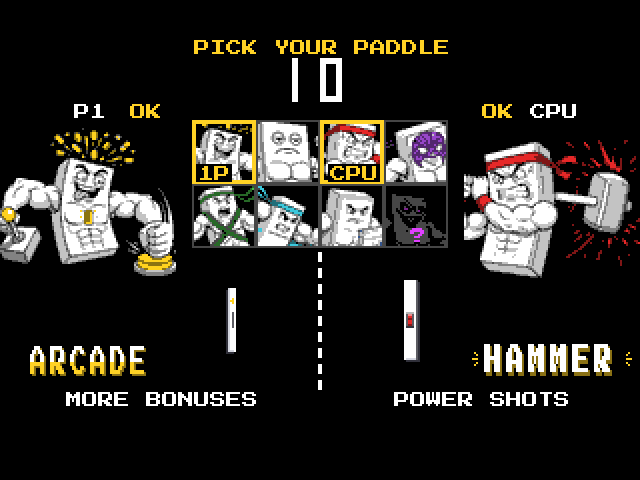
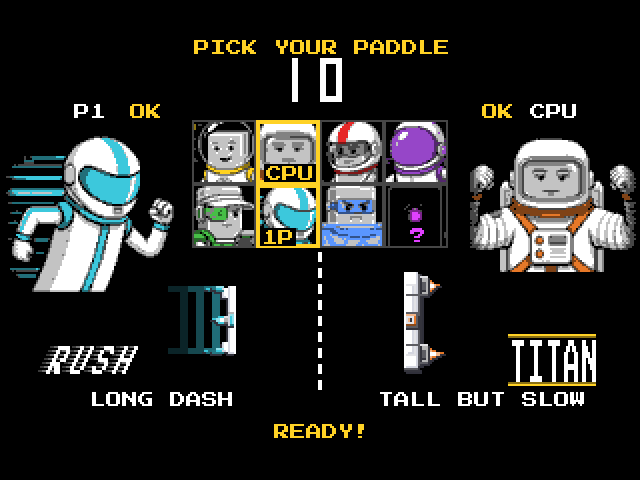
Guida, schermate e changelog della 4.6.0
Astronavi e loro illustrazioni nella guida, BLASTER, ARCADE, TWIST, BULLET e mosse speciali
aggiornati, nuove schermate del finale, schermate di PC, MiSTer e C64 con i personaggi nuovi.

diff --git a/docs/it/come-si-gioca.md b/docs/it/come-si-gioca.md
@@ -54,24 +54,34 @@ Ogni capsula mostra il simbolo del suo bonus:
 | <img src="../icons/ghost.png" alt="" width="40" height="40"><br>**GHOST** | dopo il prossimo tiro la palla si vede solo a lampi |
 | <img src="../icons/steer.png" alt="" width="40" height="40"><br>**STEER** | dopo il prossimo tiro i comandi su e giù guidano la palla, con una sterzata limitata, fino a 3/4 del campo (segnati in giallo sui bordi); intanto la racchetta resta ferma |
 | <img src="../icons/super.png" alt="" width="40" height="40"><br>**SUPER** | raro, solo dalle capsule: tiro velocissimo, con un'animazione a caso tra racchetta che ruota, hit-stop e cometa che spacca la rete |
-| <img src="../icons/bullet.png" alt="" width="40" height="40"><br>**BULLET** | raro, solo dalle capsule (circa una su 16): bullet time difensivo. Una volta attivato resta armato (il bordo giallo della racchetta lampeggia) finché la palla non entra nella propria metà campo, diretta verso di sé; allora, con un'entrata graduale, tutto va a metà velocità (palla con CURVE e STEER, racchetta avversaria, capsule, colpi del BLASTER avversario) tranne la propria racchetta, fino alla ribattuta o al punto. Il resto del gioco diventa grigio e sfocato (sul MiSTer con bordi sfumati, sul C64 solo grigio) e la palla lascia una scia di immagini. Se si subisce un punto prima che scatti, il bonus non si consuma; se ne usa uno alla volta |
+| <img src="../icons/bullet.png" alt="" width="40" height="40"><br>**BULLET** | raro, solo dalle capsule (circa una su 16): bullet time difensivo. Una volta attivato resta armato (il bordo giallo della racchetta lampeggia) finché la palla non entra nella propria metà campo, diretta verso di sé; allora, con un'entrata graduale, tutto rallenta tranne la propria racchetta: la racchetta avversaria, le capsule e i colpi del BLASTER avversario vanno a metà velocità, la palla (anche con CURVE e STEER) tanto più piano quanto più è veloce, da un quarto in meno se è lenta a sette ottavi in meno se è velocissima, fino alla ribattuta o al punto. Il resto del gioco diventa grigio e sfocato (sul MiSTer con bordi sfumati, sul C64 solo grigio) e la palla lascia una scia di immagini. Se si subisce un punto prima che scatti, il bonus non si consuma; se ne usa uno alla volta |
 
 ## Tipi di racchetta (NEXT)
 
-Prima dei bonus ognuno sceglie la sua racchetta (ogni avversario della scalata ha la sua). Ogni tipo ha un vantaggio, un piccolo prezzo e il disegno del suo personaggio, che lo fa
-riconoscere in partita (nell'immagine le racchette sono in proporzione; sul C64 i segni sono fermi
-e con i colori di sempre). I tipi sono bilanciati perché ognuno vinca
-circa metà dei punti contro la racchetta normale.
+Prima dei bonus ognuno sceglie la sua racchetta (ogni avversario della scalata ha la sua). Ogni tipo ha un vantaggio, un piccolo prezzo e l'astronave del suo personaggio, vista dall'alto, che lo fa
+riconoscere in partita (nell'immagine le racchette sono in proporzione; sul C64 i disegni sono fermi).
+La faccia che colpisce resta un bordo dritto, alto quanto la racchetta. Su PC e MiSTer i motori
+fanno fuoco e, allo scatto in avanti, si accendono i booster: un lampo agli ugelli e un getto che
+parte da dove era la racchetta e si accorcia in un quarto di secondo. I tipi sono bilanciati perché
+ognuno vinca circa metà dei punti contro la racchetta normale.
 
 ![I sette tipi di racchetta, in proporzione, con i loro segni](../icons/paddles.png)
 
+Le astronavi, come compaiono nella schermata THE END del finale:
+
+| | | |
+|:---:|:---:|:---:|
+| <img src="../../assets/ships/arcade.png" alt="ARCADE" width="260"><br>**ARCADE** | <img src="../../assets/ships/titan.png" alt="TITAN" width="260"><br>**TITAN** | <img src="../../assets/ships/hammer.png" alt="HAMMER" width="260"><br>**HAMMER** |
+| <img src="../../assets/ships/twist.png" alt="TWIST" width="260"><br>**TWIST** | <img src="../../assets/ships/blaster.png" alt="BLASTER" width="260"><br>**BLASTER** | <img src="../../assets/ships/rush.png" alt="RUSH" width="260"><br>**RUSH** |
+| <img src="../../assets/ships/guardian.png" alt="GUARDIAN" width="260"><br>**GUARDIAN** | | |
+
 | tipo | vantaggio | prezzo |
 |---|---|---|
-| **ARCADE** | più capsule: partono ogni 3-4 s invece di 4-5 e due su tre vanno a lui (se l'avversario non è ARCADE); pausa più breve tra due bonus | più corta (0,8) |
+| **ARCADE** | più capsule: partono ogni 3-4 s invece di 4-5 e due su tre vanno a lui (se l'avversario non è ARCADE); pausa più breve tra due bonus; con la riserva vuota un doppio clic su USE (entro 0,4 s) chiama subito una capsula verso di sé, se non ne sta già arrivando una | più corta (0,8) |
 | **TITAN** | più alta (1,2) | più lenta (0,8) |
 | **HAMMER** | i tiri partono più veloci (×1,25, se la palla non ha già un boost) | lenta (0,75) |
-| **TWIST** | passa alla palla metà della sua velocità verticale: colpendo in movimento si dà angolo; si inclina con la velocità | — |
-| **BLASTER** | un po' più alta (1,1) e spara: caricatore di 4 colpi veloci da sparare di fila, mostrati come rettangolini gialli dietro la racchetta (si ricarica 3 s dopo il primo colpo); i colpi raccolgono le capsule, anche quelle dirette all'avversario | niente scatto in avanti: spara con quel tasto |
+| **TWIST** | passa alla palla tre quarti della sua velocità verticale, fino a circa 60 gradi: colpendo in movimento si dà angolo; si inclina con la velocità | — |
+| **BLASTER** | un po' più alta (1,1) e spara due fasci laser verdi dai cannoni alari: caricatore di 6 colpi, mostrato dalla barra verde dietro la racchetta (si ricarica 3 s dopo il primo colpo); tenendo premuto il tasto i colpi vicini diventano un raggio continuo. I colpi raccolgono le capsule, anche quelle dirette all'avversario, e se prendono la racchetta avversaria la rallentano a metà per 2 s | niente scatto in avanti: spara con quel tasto |
 | **RUSH** | scatto in avanti più lungo (×1,5), che prende la palla più spesso; dalla posizione avanzata i tiri partono più veloci (×1,15, anche lo scatto che intercetta la palla) e più vicini all'avversario; la racchetta avanzata è anche più rapida (×1,15) | più corta (0,85) |
 | **GUARDIAN** | un muro a 5 settori dietro la racchetta, uno per partita: ogni palla mancata rimbalza sul settore all'altezza della palla, che poi sparisce | più corta (0,8) |
 
@@ -100,11 +110,11 @@ non si attivano bonus).
 | mossa | effetto |
 |---|---|
 | **STRAIGHT SHOT** | il prossimo tiro parte dritto, senza angolo, a una volta e mezza la spinta del colpo (il doppio la MAX); vale un tiro solo, e si perde se l'avversario lo intercetta con lo scatto |
-| **RISING STRIKE** | il prossimo tiro parte dritto e, passati i 5/8 del campo (i 7/8 la MAX), s'impenna di colpo a 45° lontano dalla racchetta avversaria: inganna chi si era già messo sulla traiettoria |
+| **RISING STRIKE** | il prossimo tiro parte dritto, più veloce (×1,25, la MAX ×1,5), e, passati i 5/8 del campo (i 7/8 la MAX), s'impenna di colpo a 45° lontano dalla racchetta avversaria: inganna chi si era già messo sulla traiettoria |
 
-Anche a inizio scambio una mossa non parte lenta: al colpo la palla va almeno a metà della velocità
-massima della difficoltà con STRAIGHT SHOT (la MAX quindi almeno alla velocità massima) e ai 3/8 con
-RISING STRIKE.
+Anche a inizio scambio una mossa non parte lenta: al colpo la palla va almeno ai 3/4 della velocità
+massima della difficoltà con STRAIGHT SHOT (che poi la moltiplica: la MAX parte almeno a una volta e
+mezza la massima) e ai 5/8 con RISING STRIKE.
 
 | comando | STRAIGHT SHOT | RISING STRIKE |
 |---|---|---|
@@ -167,7 +177,9 @@ semplici). Le partite sono NEXT a 5 punti.
   sfilata dei sette avversari con il timbro DEFEATED (sul MiSTer la racchetta battuta si spegne),
   il punteggio finale con il premio del
   campione (la vittoria dell'ultimo livello, più la partita perfetta), "YOU ARE THE PADD WS
-  CHAMPION" con i fuochi d'artificio, i titoli di coda e THE END, in circa un minuto, con una
+  CHAMPION" con i fuochi d'artificio, tra cui passa l'astronave del campione, che rallenta, carica e
+  salta nell'iperspazio, i titoli di coda e THE END con l'illustrazione della sua astronave, in
+  circa un minuto, con una
   musica tutta sua; poi le iniziali. Start lo salta. La voce "YOU WIN!" si sente anche a ogni
   partita vinta contro la CPU. Se chi vince non ha lasciato neanche un punto all'avversario, al posto
   di YOU WIN (o di GAME OVER, in due) compare PERFECT, urlato dalla voce.
@@ -363,8 +375,10 @@ menu. Solo PAL; finora provata in VICE. Dettagli in [c64/README.md](../../c64/RE
 | NEXT: scelta della racchetta, con i personaggi | Le racchette dei personaggi: BLASTER contro GUARDIAN |
 | ![NEXT: lo schermo VS della scalata](../screenshots/challenge-intro.png) | ![NEXT: nuovo sfidante](../screenshots/challenge-challenger.png) |
 | NEXT: lo schermo VS prima dell'ultimo avversario, GUARDIAN | NEXT: entra un secondo giocatore |
-| ![Finale: la sfilata degli avversari battuti](../screenshots/ending-parade.png) | ![Commodore 64: scelta della racchetta](../screenshots/c64-paddles.png) |
-| Finale della scalata: gli avversari battuti, timbrati DEFEATED | Commodore 64: scelta della racchetta, con i personaggi |
+| ![Finale: la sfilata degli avversari battuti](../screenshots/ending-parade.png) | ![Finale: l'astronave del campione salta nell'iperspazio](../screenshots/ending-warp.png) |
+| Finale della scalata: gli avversari battuti, timbrati DEFEATED | Finale: tra i fuochi l'astronave del campione salta nell'iperspazio |
+| ![Finale: THE END con l'astronave del campione](../screenshots/ending-the-end.png) | ![Commodore 64: scelta della racchetta](../screenshots/c64-paddles.png) |
+| Finale: THE END con l'illustrazione dell'astronave | Commodore 64: scelta della racchetta, con i personaggi |
 | ![Core MiSTer: titolo](../screenshots/mister-title.png) | ![Core MiSTer: scelta della racchetta](../screenshots/mister-pick.png) |
 | Core MiSTer a 320×240: titolo dopo il gettone | Core MiSTer: scelta della racchetta, con i personaggi |
 | ![Commodore 64: titolo](../screenshots/c64-title.png) | ![Commodore 64: partita NEXT](../screenshots/c64-next.png) |

diff --git a/docs/en/how-to-play.md b/docs/en/how-to-play.md
@@ -56,24 +56,34 @@ Each capsule shows the symbol of its power-up:
 | <img src="../icons/ghost.png" alt="" width="40" height="40"><br>**GHOST** | after the next shot the ball is only visible in flashes |
 | <img src="../icons/steer.png" alt="" width="40" height="40"><br>**STEER** | after the next shot, up and down steer the ball, with limited steering, up to 3/4 of the field (marked in yellow on the edges); meanwhile the paddle stays still |
 | <img src="../icons/super.png" alt="" width="40" height="40"><br>**SUPER** | rare, only from capsules: a very fast shot, with a random animation among spinning paddle, hit-stop and a comet that breaks the net |
-| <img src="../icons/bullet.png" alt="" width="40" height="40"><br>**BULLET** | rare, only from capsules (about one in 16): defensive bullet time. Once activated it stays armed (the yellow border of the paddle flashes) until the ball enters your own half, heading towards you; then, easing in, everything runs at half speed (ball with CURVE and STEER, opponent's paddle, capsules, the opponent's BLASTER shots) except your own paddle, until the return or the point. The rest of the game turns grey and blurred (on the MiSTer with soft edges, on the C64 just grey) and the ball leaves a trail of images. If you concede a point before it triggers, the power-up is not used up; only one can be used at a time |
+| <img src="../icons/bullet.png" alt="" width="40" height="40"><br>**BULLET** | rare, only from capsules (about one in 16): defensive bullet time. Once activated it stays armed (the yellow border of the paddle flashes) until the ball enters your own half, heading towards you; then, easing in, everything slows down except your own paddle: the opponent's paddle, the capsules and the opponent's BLASTER shots run at half speed, the ball (also with CURVE and STEER) the more the faster it is, from a quarter less when it is slow to seven eighths less when it is very fast, until the return or the point. The rest of the game turns grey and blurred (on the MiSTer with soft edges, on the C64 just grey) and the ball leaves a trail of images. If you concede a point before it triggers, the power-up is not used up; only one can be used at a time |
 
 ## Paddle types (NEXT)
 
-Before the power-ups each player picks a paddle (each opponent of the ladder has its own). Each type has an advantage, a small price and its character's design, which makes it
-recognisable in play (the paddles in the picture are to scale; on the C64 the marks are still and
-keep the usual colours). The types are balanced so that each
-wins about half of the points against the normal paddle.
+Before the power-ups each player picks a paddle (each opponent of the ladder has its own). Each type has an advantage, a small price and its character's spaceship, seen from above, which makes it
+recognisable in play (the paddles in the picture are to scale; on the C64 the drawings are still).
+The hitting face stays a straight edge, as tall as the paddle. On PC and MiSTer the engines fire
+and, on the forward dash, the boosters ignite: a flash at the nozzles and a jet that starts where
+the paddle was and shrinks within a quarter of a second. The types are balanced so that each wins
+about half of the points against the normal paddle.
 
 ![The seven paddle types, to scale, with their marks](../icons/paddles.png)
 
+The spaceships, as they appear on the THE END screen of the ending:
+
+| | | |
+|:---:|:---:|:---:|
+| <img src="../../assets/ships/arcade.png" alt="ARCADE" width="260"><br>**ARCADE** | <img src="../../assets/ships/titan.png" alt="TITAN" width="260"><br>**TITAN** | <img src="../../assets/ships/hammer.png" alt="HAMMER" width="260"><br>**HAMMER** |
+| <img src="../../assets/ships/twist.png" alt="TWIST" width="260"><br>**TWIST** | <img src="../../assets/ships/blaster.png" alt="BLASTER" width="260"><br>**BLASTER** | <img src="../../assets/ships/rush.png" alt="RUSH" width="260"><br>**RUSH** |
+| <img src="../../assets/ships/guardian.png" alt="GUARDIAN" width="260"><br>**GUARDIAN** | | |
+
 | type | advantage | price |
 |---|---|---|
-| **ARCADE** | more capsules: they start every 3-4 s instead of 4-5 and two out of three go to it (if the opponent is not ARCADE); shorter pause between two power-ups | shorter (0.8) |
+| **ARCADE** | more capsules: they start every 3-4 s instead of 4-5 and two out of three go to it (if the opponent is not ARCADE); shorter pause between two power-ups; with an empty reserve a double click on USE (within 0.4 s) calls a capsule towards it right away, unless one is already on its way | shorter (0.8) |
 | **TITAN** | taller (1.2) | slower (0.8) |
 | **HAMMER** | shots leave faster (×1.25, if the ball doesn't already have a boost) | slow (0.75) |
-| **TWIST** | passes half of its vertical speed to the ball: hitting while moving gives angle; it tilts with its speed | — |
-| **BLASTER** | slightly taller (1.1) and it shoots: a magazine of 4 fast shots that can be fired in a row, shown as small yellow rectangles behind the paddle (it reloads 3 s after the first shot); the shots collect capsules, even those heading for the opponent | no forward dash: that button shoots |
+| **TWIST** | passes three quarters of its vertical speed to the ball, up to about 60 degrees: hitting while moving gives angle; it tilts with its speed | — |
+| **BLASTER** | slightly taller (1.1) and it shoots two green laser beams from its wing guns: a magazine of 6 shots, shown by the green bar behind the paddle (it reloads 3 s after the first shot); holding the button turns close shots into a continuous beam. The shots collect capsules, even those heading for the opponent, and when they hit the opponent's paddle they slow it to half speed for 2 s | no forward dash: that button shoots |
 | **RUSH** | longer forward dash (×1.5), which catches the ball more often; from the forward position shots leave faster (×1.15, also with the dash that intercepts the ball) and closer to the opponent; the forward paddle is also quicker (×1.15) | shorter (0.85) |
 | **GUARDIAN** | a 5-section wall behind the paddle, one per match: each missed ball bounces off the section at the ball's height, which then disappears | shorter (0.8) |
 
@@ -102,11 +112,11 @@ power-ups can be activated).
 | move | effect |
 |---|---|
 | **STRAIGHT SHOT** | the next shot goes straight, with no angle, at one and a half times the push of the hit (twice with the MAX); it lasts one shot only, and is lost if the opponent intercepts it with the dash |
-| **RISING STRIKE** | the next shot goes straight and, past 5/8 of the field (7/8 with the MAX), suddenly rises at 45° away from the opponent's paddle: it fools whoever had already moved into its path |
+| **RISING STRIKE** | the next shot goes straight, faster (×1.25, the MAX ×1.5), and, past 5/8 of the field (7/8 with the MAX), suddenly rises at 45° away from the opponent's paddle: it fools whoever had already moved into its path |
 
 A move never leaves slowly, even at the start of a rally: when it is hit, the ball goes at least at
-half the difficulty's top speed with STRAIGHT SHOT (so the MAX at least at the top speed) and at 3/8
-with RISING STRIKE.
+3/4 of the difficulty's top speed with STRAIGHT SHOT (which then multiplies it: the MAX leaves at
+least at one and a half times the top speed) and at 5/8 with RISING STRIKE.
 
 | command | STRAIGHT SHOT | RISING STRIKE |
 |---|---|---|
@@ -169,7 +179,8 @@ entrances in characters, simpler). Matches are NEXT, to 5 points.
   parade of the seven opponents with the DEFEATED stamp (on the MiSTer the beaten paddle goes
   dark), the final score with the champion's prize
   (the win of the last level, plus the perfect match), "YOU ARE THE PADD WS CHAMPION" with
-  fireworks, the credits and THE END, in about a minute, with its own music; then the initials.
+  fireworks, through which the champion's spaceship flies, slows down, charges and jumps into
+  hyperspace, the credits and THE END with the illustration of its spaceship, in about a minute, with its own music; then the initials.
   Start skips it. The voice "YOU WIN!" is also heard at every match won against the CPU. If the
   winner didn't let the opponent score a single point, PERFECT replaces YOU WIN (or GAME OVER, with
   two players), shouted by the voice.
@@ -369,8 +380,10 @@ used with `F` / `C` (left) and `.` / `-` (right). Key **5** coin, fire or **RETU
 | NEXT: paddle pick, with the characters | The characters' paddles: BLASTER against GUARDIAN |
 | ![NEXT: the ladder's VS screen](../screenshots/challenge-intro.png) | ![NEXT: new challenger](../screenshots/challenge-challenger.png) |
 | NEXT: the VS screen before the last opponent, GUARDIAN | NEXT: a second player joins in |
-| ![Ending: the parade of the beaten opponents](../screenshots/ending-parade.png) | ![Commodore 64: paddle pick](../screenshots/c64-paddles.png) |
-| Ladder ending: the beaten opponents, stamped DEFEATED | Commodore 64: paddle pick, with the characters |
+| ![Ending: the parade of the beaten opponents](../screenshots/ending-parade.png) | ![Ending: the champion's spaceship jumps into hyperspace](../screenshots/ending-warp.png) |
+| Ladder ending: the beaten opponents, stamped DEFEATED | Ending: among the fireworks the champion's spaceship jumps into hyperspace |
+| ![Ending: THE END with the champion's spaceship](../screenshots/ending-the-end.png) | ![Commodore 64: paddle pick](../screenshots/c64-paddles.png) |
+| Ending: THE END with the spaceship's illustration | Commodore 64: paddle pick, with the characters |
 | ![MiSTer core: title](../screenshots/mister-title.png) | ![MiSTer core: paddle pick](../screenshots/mister-pick.png) |
 | MiSTer core at 320×240: title after the coin | MiSTer core: paddle pick, with the characters |
 | ![Commodore 64: title](../screenshots/c64-title.png) | ![Commodore 64: NEXT match](../screenshots/c64-next.png) |

diff --git a/CHANGELOG.md b/CHANGELOG.md
@@ -14,6 +14,40 @@ crea il commit e il tag `vX.Y.Z`.
 
 ## [Non rilasciato]
 
+### Aggiunto
+- **Astronavi** (PC, web, Deck, MiSTer e C64): le racchette di NEXT diventano le astronavi dei
+  personaggi viste dall'alto, con la faccia che colpisce sempre dritta. Su PC e MiSTer i motori
+  fanno fuoco e allo scatto in avanti si accendono i booster di tutte le racchette: un lampo agli
+  ugelli e un getto che parte da casa e si accorcia mentre la racchetta avanza. Sul C64 ogni
+  astronave ha il suo colore. Le illustrazioni delle astronavi sono nella guida.
+- I personaggi sono ridisegnati come equipaggi spaziali, nella scelta, nello schermo VS e nella
+  sfilata del finale (tutte le versioni).
+- Finale (PC, MiSTer e C64): fuochi d'artificio nuovi, di sei tipi, con una salva finale; tra i
+  fuochi passa l'astronave del campione, che rallenta, carica e salta nell'iperspazio; THE END
+  mostra la sua astronave.
+- **BLASTER**: spara due fasci laser verdi, con un caricatore di 6 colpi mostrato da una barra
+  verde; tenendo premuto il tasto (o il pulsante del paddle, o il joystick verso l'avversario sul
+  C64) continua a sparare e i colpi vicini diventano un raggio continuo. Un colpo che prende la
+  racchetta avversaria la rallenta a metà per 2 s.
+- **ARCADE**: con la riserva vuota, un doppio clic su USE chiama subito una capsula verso di sé.
+- La CPU di NEXT usa le due novità: il BLASTER spara anche alla racchetta avversaria quando la
+  palla va verso di lei, l'ARCADE con la riserva vuota chiama le capsule con il doppio clic.
+
+### Modificato
+- RUSH: la fiamma del postbruciatore è più viva (lunghezza che cambia, alone che pulsa, diamanti
+  d'urto che scorrono, scintille).
+- BULLET: la palla rallenta tanto più quanto è veloce (da un quarto in meno se è lenta a sette
+  ottavi in meno se è velocissima), così anche i tiri più veloci diventano prendibili.
+- TWIST: passa alla palla tre quarti della sua velocità verticale (prima metà), fino a circa 60
+  gradi.
+- Mosse speciali: STRAIGHT SHOT parte almeno ai 3/4 della velocità massima e RISING STRIKE ai 5/8;
+  RISING STRIKE parte anche più veloce (×1,25, la MAX ×1,5).
+- PC: la scritta del bonus sta in alto al centro, sotto i punteggi, come sul MiSTer.
+
+### Corretto
+- PC e MiSTer: il salto del TELEPORT finisce sempre prima che la palla arrivi, anche con la racchetta in
+  posizione di scatto (e con quello lungo del RUSH).
+
 ## [4.5.0] - 2026-11-19
 
 ### Aggiunto

diff --git a/docs/it/configurazione.md b/docs/it/configurazione.md
@@ -96,7 +96,7 @@ buoni si riportano poi nel core Rust e nel MiSTer).
 | `super_meter_max`, `super_cost` | `64`, `32` | barra delle mosse speciali (sempre accese; la vecchia chiave `super_moves` sparisce dal file) e costo di una mossa |
 | `super_gain_hit`, `super_gain_dash`, `super_gain_conceded` | `2`, `4`, `8` | barra guadagnata con un colpo, con lo scatto che intercetta, con un punto subito |
 | `super_straight_multiplier` | `2` | spinta del tiro con STRAIGHT SHOT MAX (1 + 1/2ⁿ: 2, 1,5, 1,25…); la mossa normale ha la metà dell'aggiunta |
-| `super_min_speed_straight`, `super_min_speed_rise` | `0.5`, `0.375` | velocità orizzontale minima della palla al colpo di STRAIGHT SHOT e di RISING STRIKE, in frazione della massima della difficoltà: una mossa a inizio scambio non parte più lenta |
+| `super_min_speed_straight`, `super_min_speed_rise` | `0.75`, `0.625` | velocità orizzontale minima della palla al colpo di STRAIGHT SHOT e di RISING STRIKE, in frazione della massima della difficoltà: una mossa a inizio scambio non parte più lenta |
 
 I tipi di racchetta sono nella sezione `next.paddles`.
 

diff --git a/docs/en/configuration.md b/docs/en/configuration.md
@@ -96,7 +96,7 @@ out new tunings (good values are then carried over to the Rust core and the MiST
 | `super_meter_max`, `super_cost` | `64`, `32` | special move meter (always on; the old `super_moves` key disappears from the file) and cost of a move |
 | `super_gain_hit`, `super_gain_dash`, `super_gain_conceded` | `2`, `4`, `8` | meter gained with a hit, with a dash that intercepts the ball, with a point conceded |
 | `super_straight_multiplier` | `2` | push of the STRAIGHT SHOT MAX (1 + 1/2ⁿ: 2, 1.5, 1.25…); the normal move adds half as much |
-| `super_min_speed_straight`, `super_min_speed_rise` | `0.5`, `0.375` | minimum horizontal ball speed when a STRAIGHT SHOT or RISING STRIKE is hit, as a fraction of the difficulty's top speed: a move at the start of a rally no longer leaves slowly |
+| `super_min_speed_straight`, `super_min_speed_rise` | `0.75`, `0.625` | minimum horizontal ball speed when a STRAIGHT SHOT or RISING STRIKE is hit, as a fraction of the difficulty's top speed: a move at the start of a rally no longer leaves slowly |
 
 The paddle types are in the `next.paddles` section.
 
